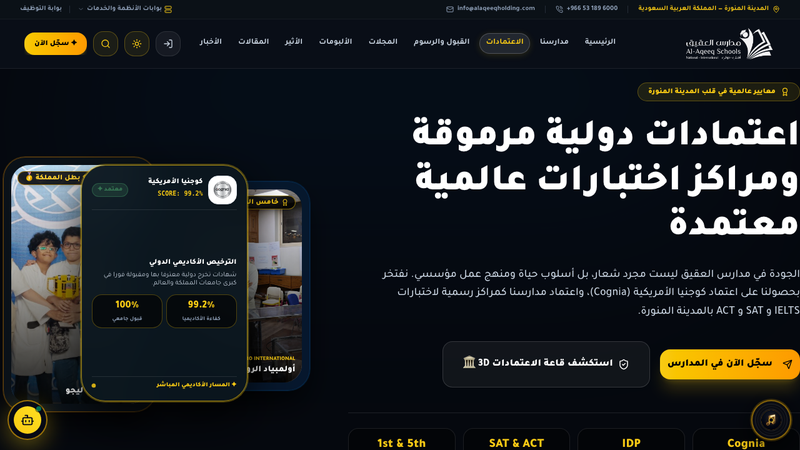
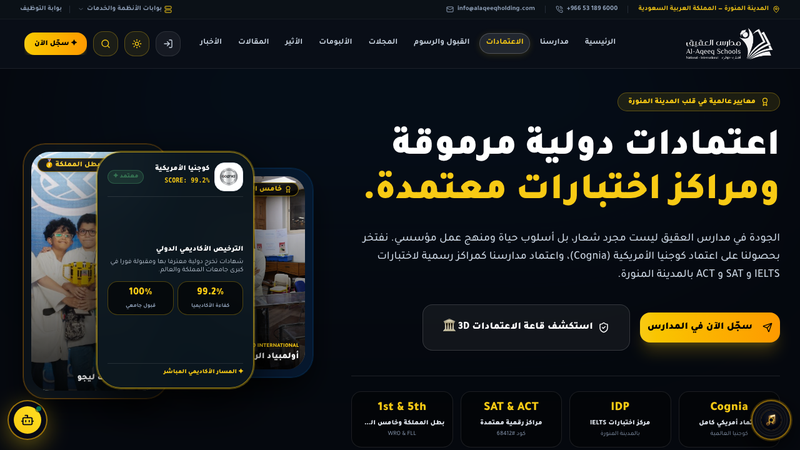
fix(accreditations): restore container ruler alignment and balance 2-line title

diff --git a/client/src/pages/AqeeqSchoolAccreditationsPage.tsx b/client/src/pages/AqeeqSchoolAccreditationsPage.tsx
@@ -167,8 +167,8 @@ export default function AqeeqSchoolAccreditationsPage() {
           cardShape="square"
           rowCount={2}
           header={
-            <div className="w-full relative z-10 py-4 sm:py-6">
-              <div className="grid grid-cols-1 lg:grid-cols-12 gap-10 lg:gap-14 items-center">
+            <div className="relative mx-auto w-full max-w-[1380px] 2xl:max-w-[1560px] px-4 sm:px-6 md:px-8 py-6 sm:py-10 z-10">
+              <div className="grid grid-cols-1 lg:grid-cols-12 gap-8 lg:gap-14 items-center">
               {/* Right Column: Hero Content & CTAs (7 cols) */}
               <div className="lg:col-span-7 text-right">
                 <div
@@ -198,12 +198,44 @@ export default function AqeeqSchoolAccreditationsPage() {
                   id="accreditations-hero-title"
                   tag="text"
                   label="عنوان هيرو الاعتمادات"
-                  defaultText="اعتمادات دولية مرموقة ومراكز اختبارات عالمية معتمدة"
+                  defaultText="اعتمادات دولية مرموقة ومراكز اختبارات معتمدة."
                   as="h1"
-                  className={`text-3xl sm:text-5xl md:text-6xl font-black tracking-tight leading-[1.2] mb-6 ${
-                    dark ? "text-white" : "text-[#0a192f]"
+                  className={`text-3xl sm:text-5xl lg:text-6xl font-black tracking-tight leading-[1.18] mb-6 ${
+                    dark ? "text-white" : "text-[#08467d]"
                   }`}
-                />
+                >
+                  {(text) => {
+                    const raw = text || "اعتمادات دولية مرموقة ومراكز اختبارات معتمدة.";
+                    const match = raw.match(/^(اعتمادات دولية مرموقة)(.*)$/);
+                    if (match) {
+                      return (
+                        <>
+                          <span className={`block ${dark ? "text-white" : "text-[#08467d]"}`}>
+                            {match[1].trim()}
+                          </span>
+                          <span className={`block ${isNationalDay ? "snd-text-gradient" : dark ? "text-[#f8ca14]" : "text-[#c59b27]"}`}>
+                            {match[2].trim()}
+                          </span>
+                        </>
+                      );
+                    }
+                    const words = raw.trim().split(/\s+/);
+                    if (words.length >= 4) {
+                      const mid = Math.floor(words.length / 2);
+                      return (
+                        <>
+                          <span className={`block ${dark ? "text-white" : "text-[#08467d]"}`}>
+                            {words.slice(0, mid).join(" ")}
+                          </span>
+                          <span className={`block ${isNationalDay ? "snd-text-gradient" : dark ? "text-[#f8ca14]" : "text-[#c59b27]"}`}>
+                            {words.slice(mid).join(" ")}
+                          </span>
+                        </>
+                      );
+                    }
+                    return <span>{raw}</span>;
+                  }}
+                </VisualEditable>
 
                 <VisualEditable
                   id="accreditations-hero-desc"
